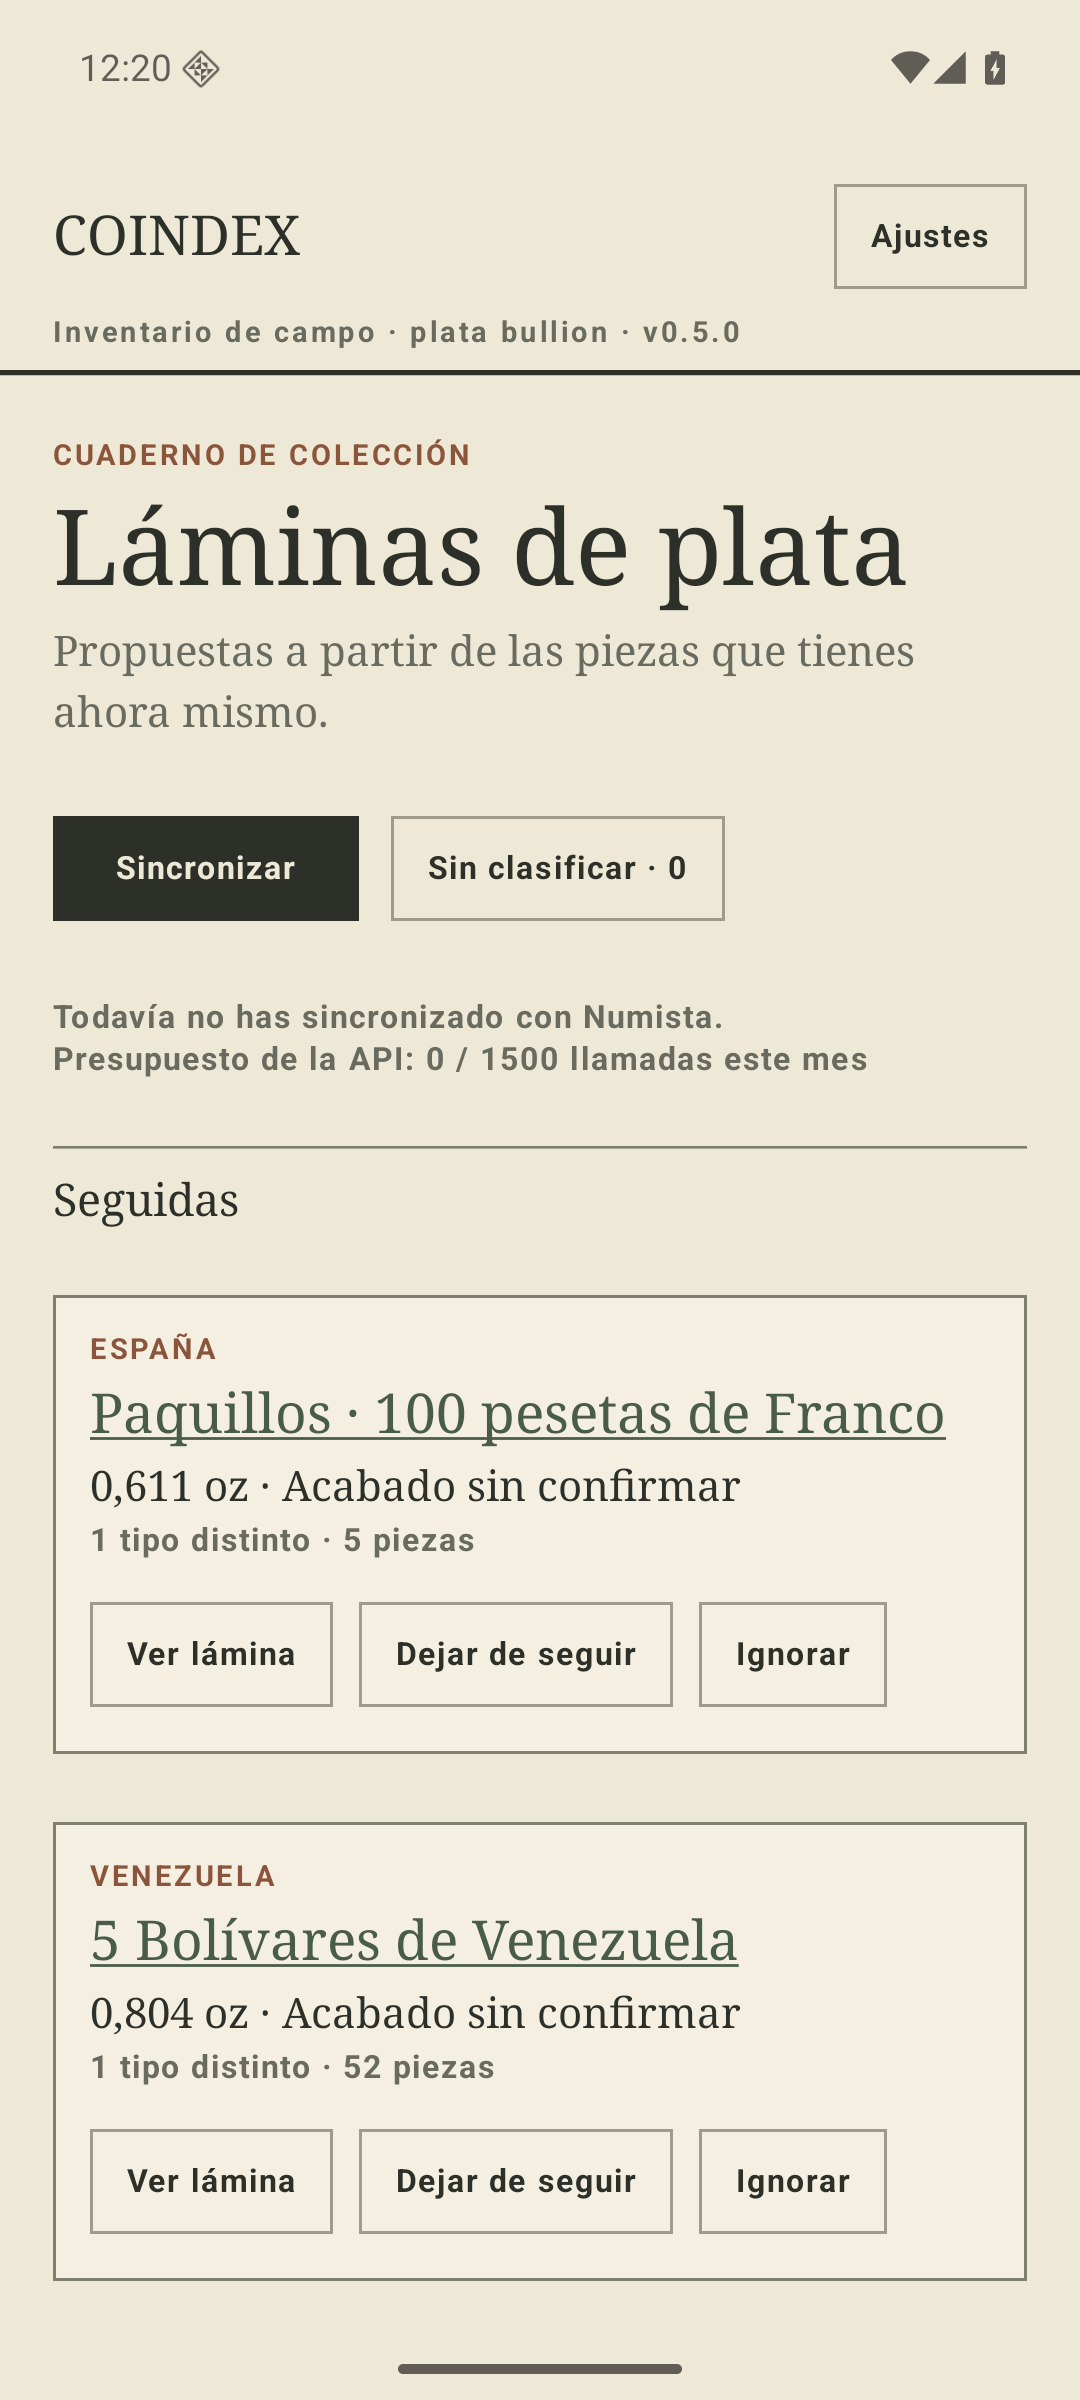
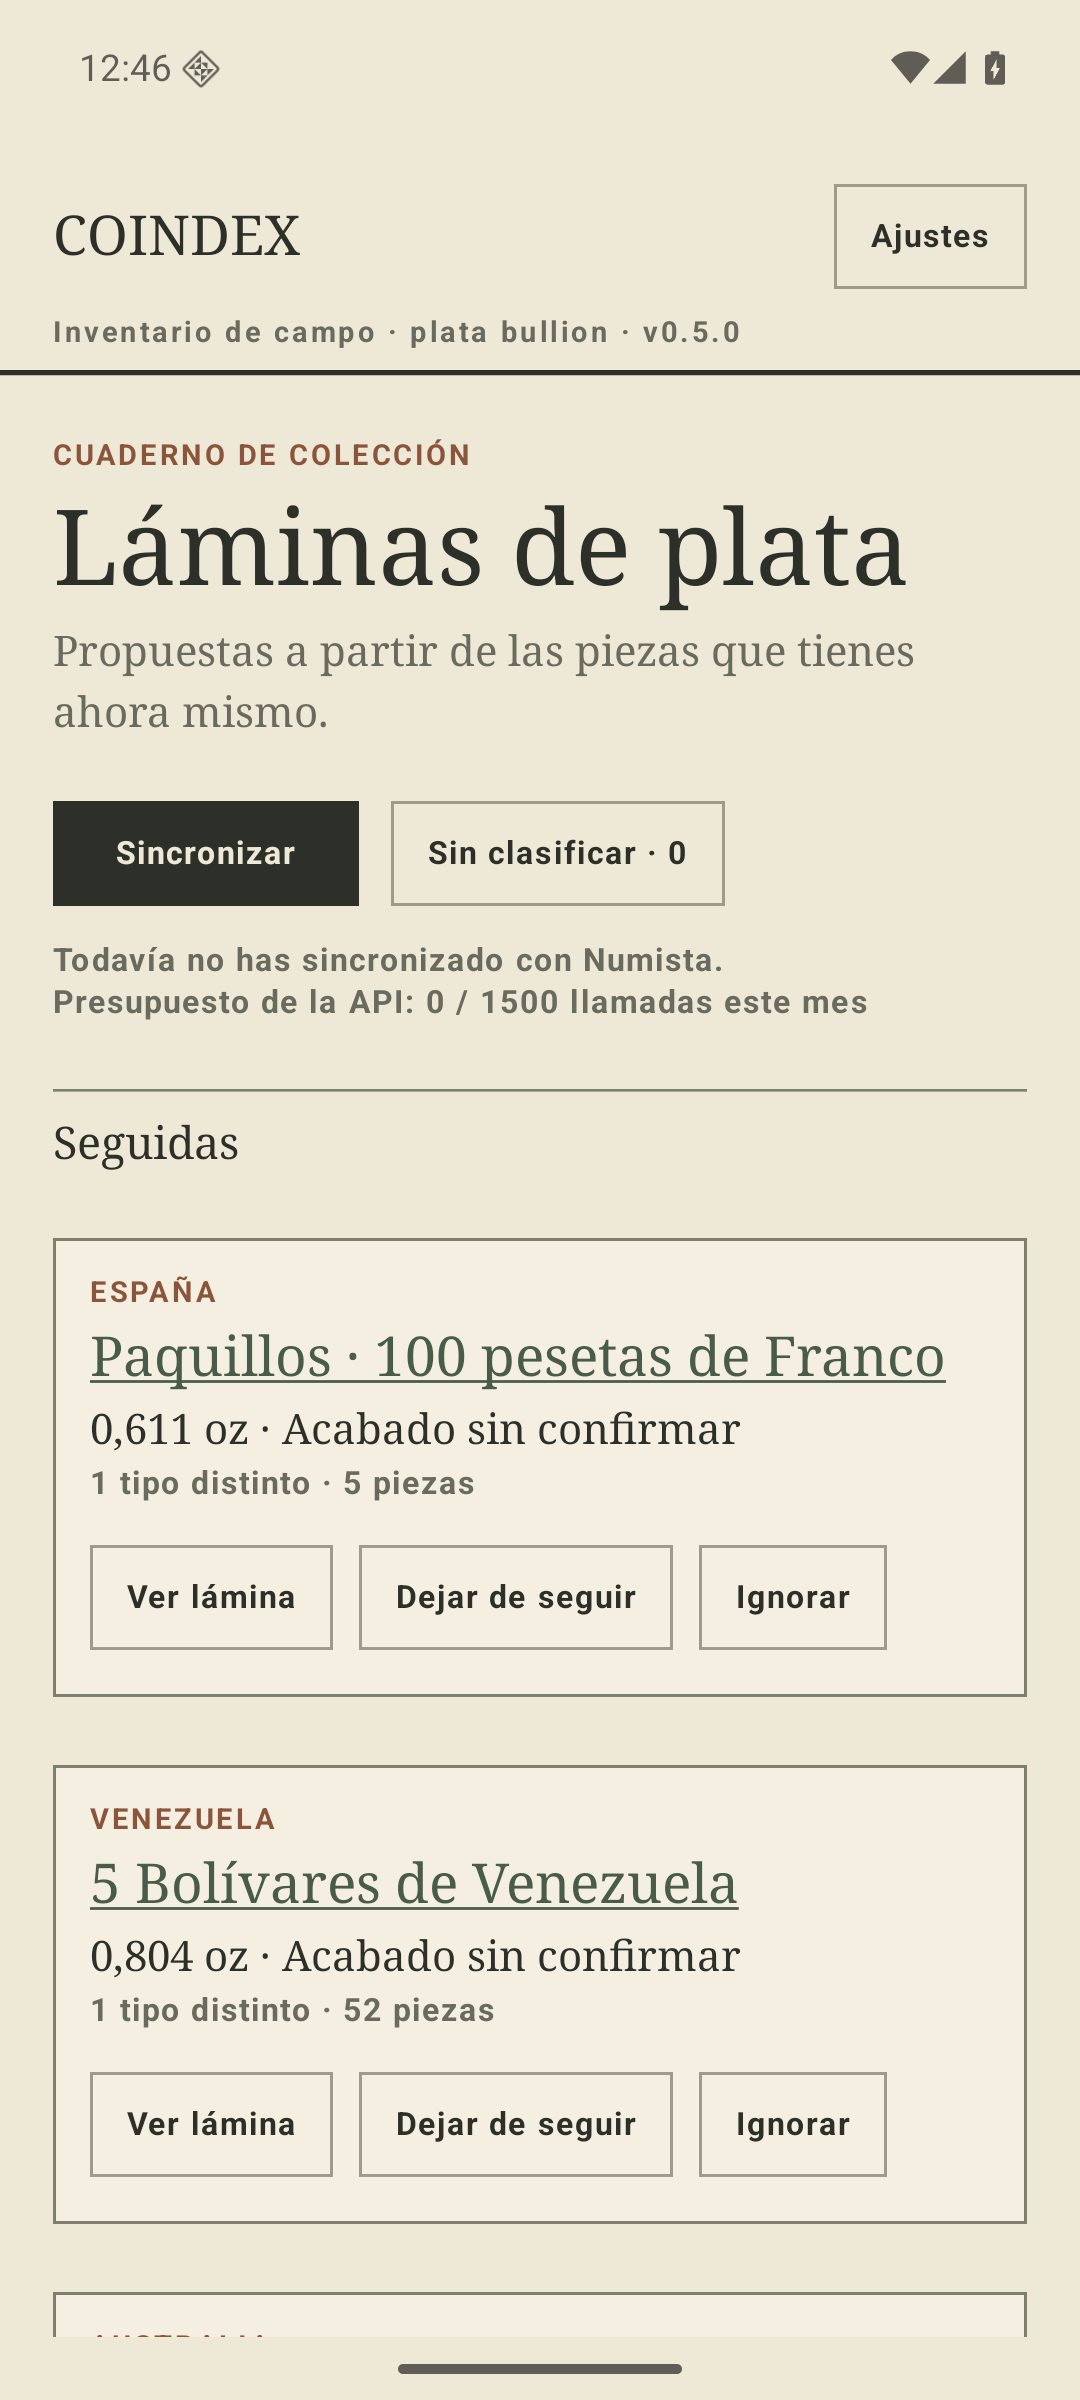
fix: lo que salió de la revisión de código del P2
- El eyebrow calla también cuando una sola pieza de la propuesta no tiene
  emisor en caché: filtrarlas convertía «Venezuela» en una afirmación sobre
  piezas que nadie comprobó.
- El nombre del emisor se lee una vez por fila de caché y no en cada emisión
  del estado: 608 respuestas completas de Numista por cada «Seguir» eran una
  décima de segundo entre el toque y la pantalla.
- `plateEntries` recibe los datos comunes ya calculados, en vez de volver a
  recorrer los miembros.
- Import muerto en PlateScreen y la precedencia de `dashed` sobre
  `emphasized`, dicha en el KDoc.

Claude-Session: https://claude.ai/code/session_01K1JVieUDoUPtX7uwUEQVmt

diff --git a/app/src/test/kotlin/com/jenarvaezg/coindex/data/MappersTest.kt b/app/src/test/kotlin/com/jenarvaezg/coindex/data/MappersTest.kt
@@ -17,7 +17,9 @@ import kotlinx.serialization.json.jsonObject
  * on read. If this ever regressed, an issue run would quietly report every star as missing.
  */
 class MappersTest {
-    private fun typeEntity(raw: String) = TypeMetaEntity(
+    // Distinct fetchedAt per row: the mapper reads each response once and remembers the answer,
+    // and two different responses for one type are only two rows if they were fetched apart.
+    private fun typeEntity(raw: String, fetchedAt: Long = 0) = TypeMetaEntity(
         typeId = 404_044,
         title = null,
         family = null,
@@ -28,23 +30,30 @@ class MappersTest {
         obverseUrl = null,
         reverseUrl = null,
         raw = raw,
-        fetchedAt = 0,
+        fetchedAt = fetchedAt,
     )
 
     @Test
     fun `the issuer's name comes from the cached type, not from a table of codes`() {
         // The cache row keeps the whole response, so the 608 seeded types already carry the
         // name Numista wrote in the collector's own language: `australie` is «Australia».
-        assertEquals("Australia", typeEntity(Fixtures.type(404_044)).toDomain().issuerName)
+        assertEquals(
+            "Australia",
+            typeEntity(Fixtures.type(404_044), fetchedAt = 5).toDomain().issuerName,
+        )
     }
 
     @Test
     fun `a type with no issuer, or unreadable json, simply has no issuer name`() {
-        assertNull(typeEntity("{}").toDomain().issuerName)
-        assertNull(typeEntity("no es json").toDomain().issuerName)
-        assertNull(typeEntity("""{"issuer": {"code": "australie"}}""").toDomain().issuerName)
+        assertNull(typeEntity("{}", fetchedAt = 1).toDomain().issuerName)
+        assertNull(typeEntity("no es json", fetchedAt = 2).toDomain().issuerName)
+        assertNull(
+            typeEntity("""{"issuer": {"code": "australie"}}""", fetchedAt = 3)
+                .toDomain()
+                .issuerName,
+        )
         // The code is still the one stored in its column.
-        assertEquals("australie", typeEntity("{}").toDomain().issuerCode)
+        assertEquals("australie", typeEntity("{}", fetchedAt = 4).toDomain().issuerCode)
     }
 
     private fun entity(raw: String) = CollectedItemEntity(

diff --git a/app/src/main/kotlin/com/jenarvaezg/coindex/data/Mappers.kt b/app/src/main/kotlin/com/jenarvaezg/coindex/data/Mappers.kt
@@ -14,6 +14,7 @@ import com.jenarvaezg.coindex.domain.ProposalDisposition
 import com.jenarvaezg.coindex.domain.TypeMeta
 import com.jenarvaezg.coindex.domain.gramsToOunces
 import com.jenarvaezg.coindex.domain.inferFinish
+import java.util.concurrent.ConcurrentHashMap
 import kotlinx.serialization.json.Json
 import kotlinx.serialization.json.contentOrNull
 import kotlinx.serialization.json.intOrNull
@@ -74,6 +75,17 @@ internal fun issuerNameFromRaw(raw: String): String? = runCatching {
 }.getOrNull()
 
 /**
+ * Issuer names already read, kept for as long as the process lives.
+ *
+ * Every emission of the collection re-maps every cached type — 608 of them after the seed, each
+ * carrying its whole Numista response — so parsing on each pass would put a tenth of a second
+ * between tapping «Seguir» and seeing it. A cached type is never refetched, so the answer is
+ * read once; the key carries `fetchedAt` anyway, so a row that is written again is read again.
+ * The empty string stands in for «no issuer», which a [ConcurrentHashMap] cannot hold as null.
+ */
+private val issuerNames = ConcurrentHashMap<Pair<Int, Long>, String>()
+
+/**
  * The finish is inferred here rather than stored, so a later fix to the inference rules
  * applies to types cached long ago without spending API budget again.
  */
@@ -83,7 +95,9 @@ fun TypeMetaEntity.toDomain(): TypeMeta = TypeMeta(
     displayTitle = title,
     family = family,
     issuerCode = issuerCode,
-    issuerName = issuerNameFromRaw(raw),
+    issuerName = issuerNames
+        .getOrPut(typeId to fetchedAt) { issuerNameFromRaw(raw).orEmpty() }
+        .ifEmpty { null },
     minYear = minYear,
     maxYear = maxYear,
     weightOz = weightGrams?.let(::gramsToOunces),

diff --git a/app/src/main/kotlin/com/jenarvaezg/coindex/ui/screens/PlateScreen.kt b/app/src/main/kotlin/com/jenarvaezg/coindex/ui/screens/PlateScreen.kt
@@ -54,7 +54,6 @@ import com.jenarvaezg.coindex.ui.sharePlateSheet
 import com.jenarvaezg.coindex.ui.numistaTypeUrl
 import com.jenarvaezg.coindex.ui.theme.Paper
 import com.jenarvaezg.coindex.ui.theme.PlateMetrics
-import com.jenarvaezg.coindex.ui.variantEntries
 import kotlinx.coroutines.flow.first
 import kotlinx.coroutines.withTimeoutOrNull
 
@@ -200,6 +199,9 @@ private fun PlateGrid(
         horizontalArrangement = Arrangement.spacedBy(PlateMetrics.gutter),
         verticalArrangement = Arrangement.spacedBy(PlateMetrics.gutter),
     ) {
+        // Read once for the whole plate: the heading says what every cell shares, the cells say
+        // the rest.
+        val common = plateCommonFacts(catalog.members)
         item(span = { androidx.compose.foundation.lazy.grid.GridItemSpan(maxLineSpan) }) {
             Column(verticalArrangement = Arrangement.spacedBy(10.dp)) {
                 Eyebrow("Catálogo curado")
@@ -211,7 +213,7 @@ private fun PlateGrid(
                     color = Paper.muted,
                 )
                 SpecificationCard(
-                    entries = plateEntries(catalog, ownedMembers),
+                    entries = plateEntries(catalog, ownedMembers, common),
                     modifier = Modifier.fillMaxWidth(),
                 )
                 // Exporting the plate is what this screen is for, so it is the only filled
@@ -233,7 +235,6 @@ private fun PlateGrid(
                 )
             }
         }
-        val common = plateCommonFacts(catalog.members)
         items(members, key = { it.member.id }) { albumMember ->
             PlateCell(albumMember, images[albumMember.member.numistaTypeId], common, onOpenSource)
         }

diff --git a/app/src/main/kotlin/com/jenarvaezg/coindex/ui/Labels.kt b/app/src/main/kotlin/com/jenarvaezg/coindex/ui/Labels.kt
@@ -54,12 +54,14 @@ fun variantLabel(weightMillioz: Int?, finish: Finish?): String =
  * Every card used to wear «EVIDENCIA DE COLECCIÓN», which is what the section heading above it
  * already said. The issuer is the one line the card cannot derive from its own title.
  *
- * Two issuers under one heading, or none recorded, leave the eyebrow unsaid: an eyebrow that
- * covers half its card would be worse than no eyebrow at all.
+ * Two issuers under one heading, or one piece whose issuer nobody recorded, leave the eyebrow
+ * unsaid: an eyebrow that covers half its card would be worse than no eyebrow at all. That is
+ * why the unknowns are kept in the list rather than filtered out — one uncached type is enough
+ * to make «Venezuela» a claim about pieces that were never checked.
  */
 fun issuerEyebrow(items: List<CollectedItem>, typeMeta: Map<Int, TypeMeta>): String? =
     items
-        .mapNotNull { item -> typeMeta[item.typeId]?.issuerName }
+        .map { item -> typeMeta[item.typeId]?.issuerName }
         .distinct()
         .singleOrNull()
 

diff --git a/app/src/test/kotlin/com/jenarvaezg/coindex/ui/LabelsTest.kt b/app/src/test/kotlin/com/jenarvaezg/coindex/ui/LabelsTest.kt
@@ -48,9 +48,11 @@ class LabelsTest {
 
         // Two issuers under one heading would be an eyebrow that lies about half its card.
         assertNull(issuerEyebrow(listOf(item(1, 10_340), item(2, 25_340)), types))
-        // A type whose cache row predates the field, or a type not cached at all.
+        // A type whose cache row has no issuer, or a type not cached at all.
         assertNull(issuerEyebrow(listOf(item(3, 1_885)), types))
         assertNull(issuerEyebrow(listOf(item(4, 999_999)), types))
         assertNull(issuerEyebrow(emptyList(), types))
+        // One unchecked piece among Venezuelans: «Venezuela» would be a claim about it too.
+        assertNull(issuerEyebrow(listOf(item(5, 10_340), item(6, 1_885)), types))
     }
 }

diff --git a/app/src/main/kotlin/com/jenarvaezg/coindex/ui/PlateLabels.kt b/app/src/main/kotlin/com/jenarvaezg/coindex/ui/PlateLabels.kt
@@ -42,8 +42,11 @@ fun plateCellFootnote(member: CollectionCatalogMember, common: PlateCommonFacts)
  *
  * Whatever [plateCommonFacts] lifts out of the cells lands here, once.
  */
-fun plateEntries(catalog: CollectionCatalog, ownedMembers: Int): List<Pair<String, String>> {
-    val common = plateCommonFacts(catalog.members)
+fun plateEntries(
+    catalog: CollectionCatalog,
+    ownedMembers: Int,
+    common: PlateCommonFacts = plateCommonFacts(catalog.members),
+): List<Pair<String, String>> {
     return buildList {
         add("Progreso" to "$ownedMembers / ${catalog.members.size} emisiones")
         addAll(variantEntries(catalog.weightMillioz, catalog.finish))

diff --git a/app/src/main/kotlin/com/jenarvaezg/coindex/ui/components/FieldGuide.kt b/app/src/main/kotlin/com/jenarvaezg/coindex/ui/components/FieldGuide.kt
@@ -219,7 +219,8 @@ private val DASH_GAP = 4.dp
  * [dashed] is drawn dashed, and means what a dashed box means on paper: nothing is mounted here
  * yet. It is for absences — a «me falta» cell, a section with no cards in it — never for a card
  * that has pieces behind it. [emphasized] is the opposite end: a double-weight rule for the
- * cells the collector actually owns.
+ * cells the collector actually owns, and it gives way to [dashed], because an absence is never
+ * something to emphasize.
  *
  * (The parameter used to only change the border colour, while its comment promised both a
  * dashed rule and an offset shadow the card never drew.)

diff --git a/app/src/main/kotlin/com/jenarvaezg/coindex/ui/screens/PlateSheet.kt b/app/src/main/kotlin/com/jenarvaezg/coindex/ui/screens/PlateSheet.kt
@@ -105,12 +105,12 @@ fun PlateSheet(
             .padding(SHEET_PADDING),
         verticalArrangement = Arrangement.spacedBy(SHEET_GUTTER),
     ) {
+        val common = plateCommonFacts(catalog.members)
         SheetHeading(
             catalog = catalog,
-            entries = plateEntries(catalog, ownedMembers),
+            entries = plateEntries(catalog, ownedMembers, common),
             layout = layout,
         )
-        val common = plateCommonFacts(catalog.members)
         members.chunked(layout.columns).forEach { row ->
             Row(
                 modifier = Modifier.fillMaxWidth(),
